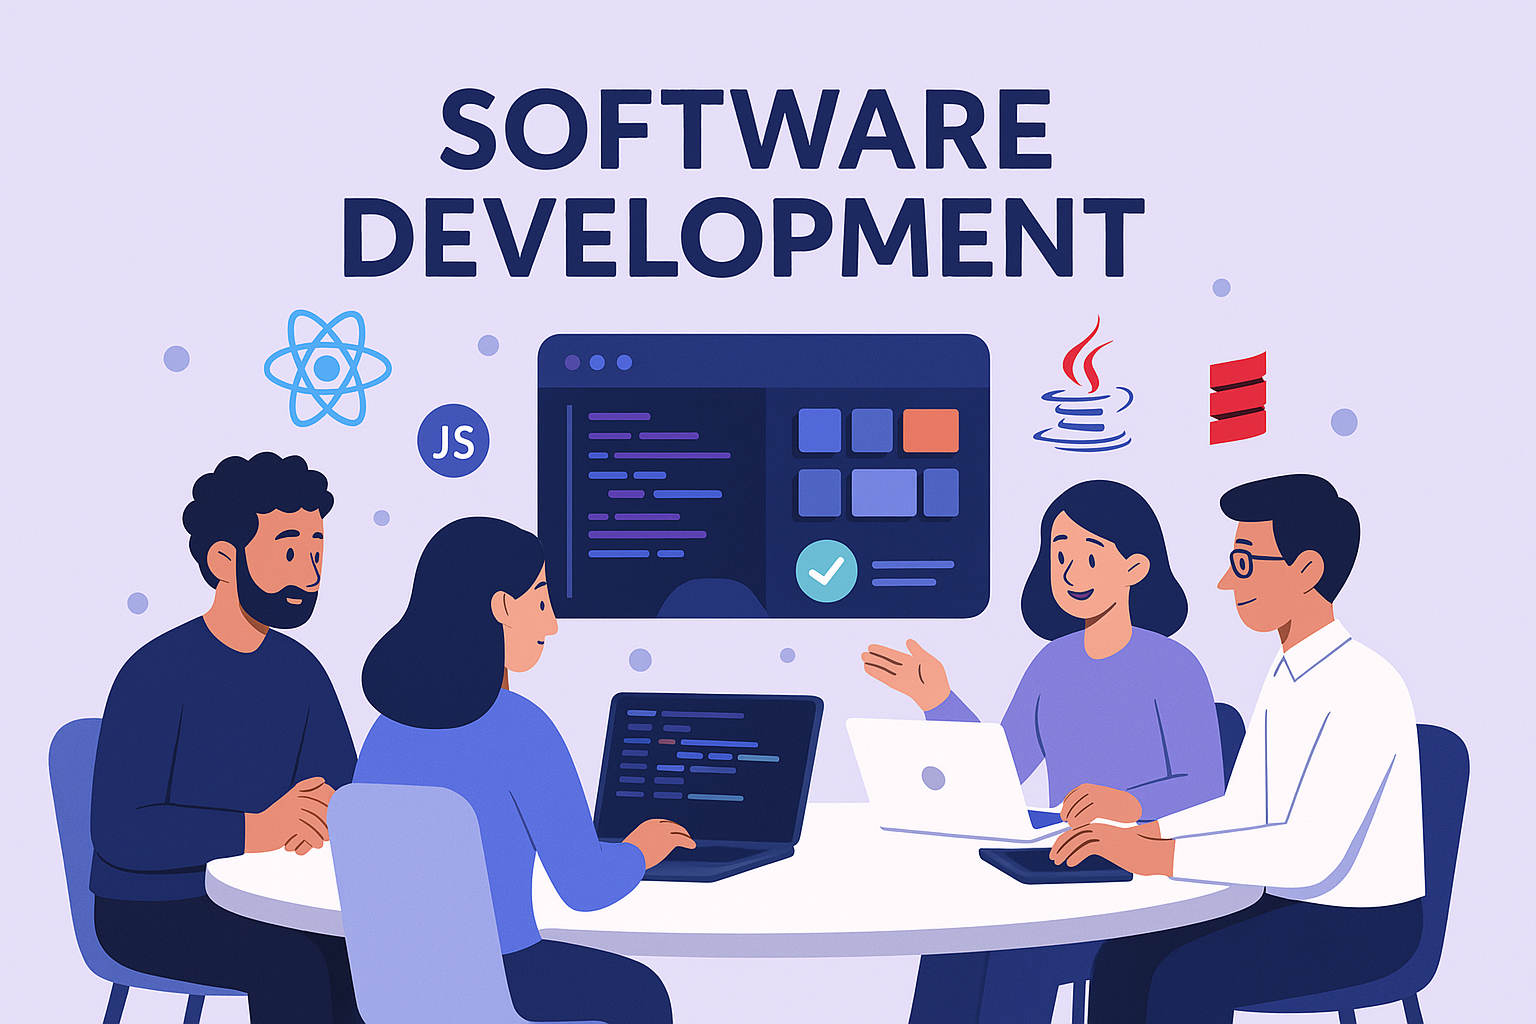
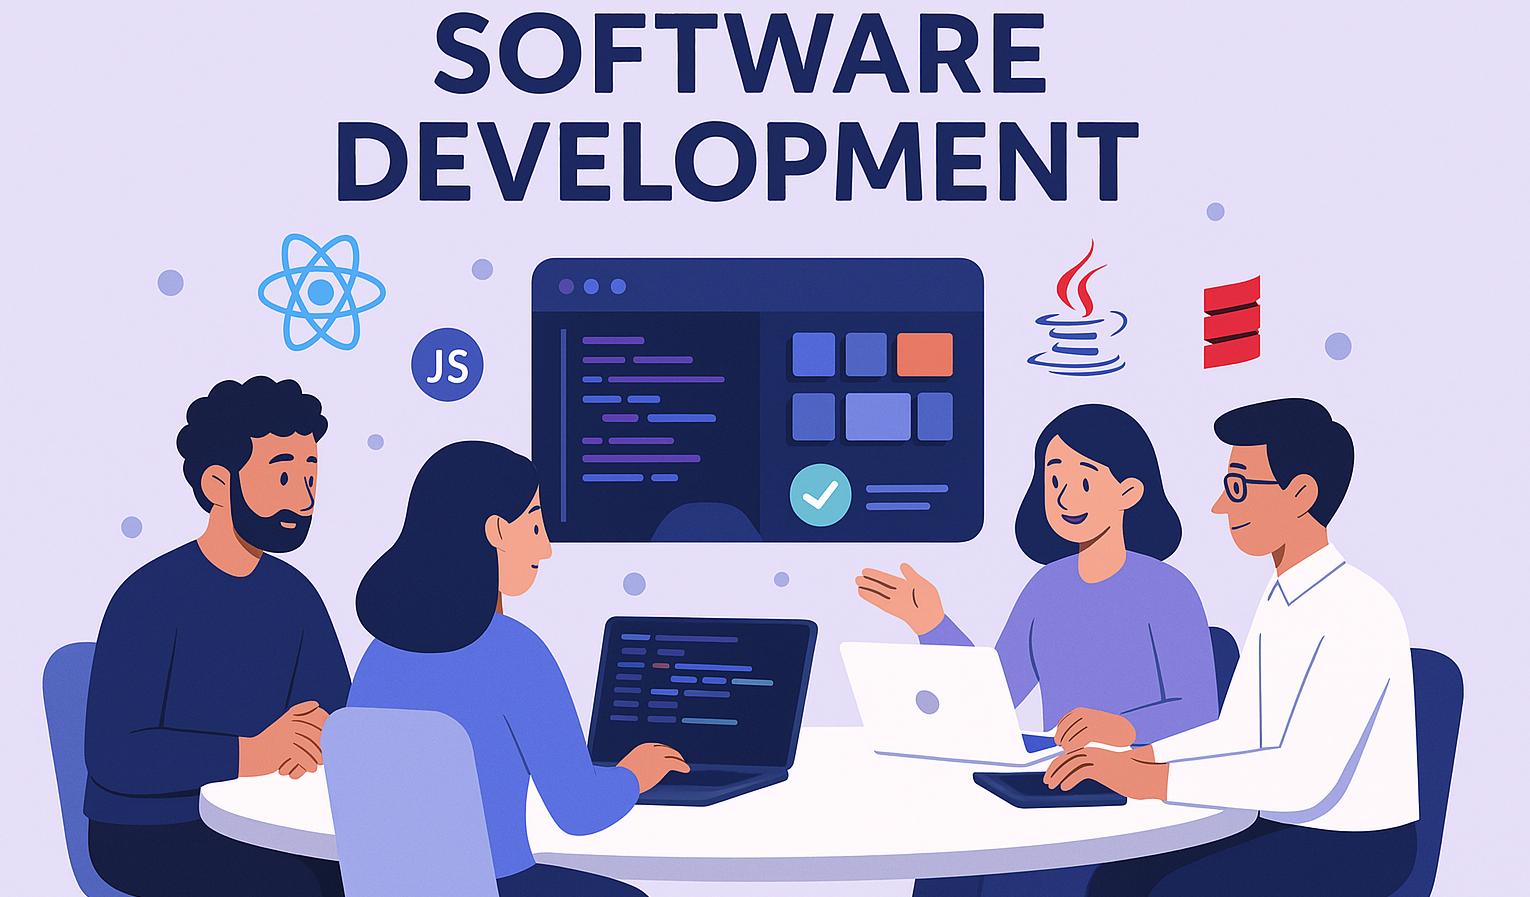
update pic

diff --git a/components/chatbot.tsx b/components/chatbot.tsx
@@ -12,7 +12,7 @@ const Chatbot = ({ chatbotUrl }: ChatbotProps) => {
         <Image
           alt="Tech Training"
           className="w-full h-full object-cover"
-          src={"https://github.com/vic-info/official-website/blob/main/public/web_dev.jpg?raw=true"}
+          src={"https://github.com/vic-info/official-website/blob/main/public/softwaredevelopment.png?raw=true"}
           fill
           sizes="(max-width: 768px) 100vw, (max-width: 1200px) 50vw, 33vw"
           priority
